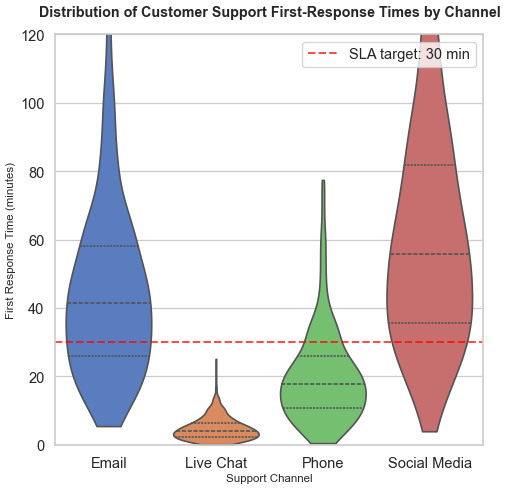
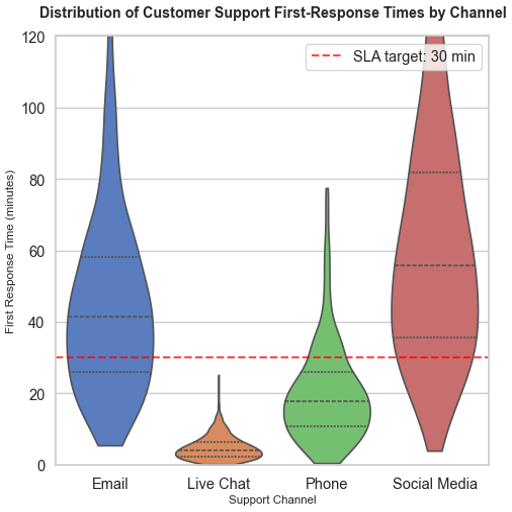
fig resize to 512x512

diff --git a/chart.py b/chart.py
@@ -13,7 +13,7 @@ import numpy as np
 import pandas as pd
 import seaborn as sns
 import matplotlib.pyplot as plt
-
+from PIL import Image
 
 def generate_synthetic_support_data(seed: int = 42) -> pd.DataFrame:
     """
@@ -126,6 +126,9 @@ def create_violinplot(df: pd.DataFrame, output_path: str = "chart.png") -> None:
     # Save as 512x512 PNG:
     #   8x8 inches * 64 dpi = 512x512 pixels
     plt.savefig(output_path, dpi=64, bbox_inches="tight")
+    img = Image.open(output_path)
+    img = img.resize((512, 512))
+    img.save(output_path)
     plt.close()
 
 
